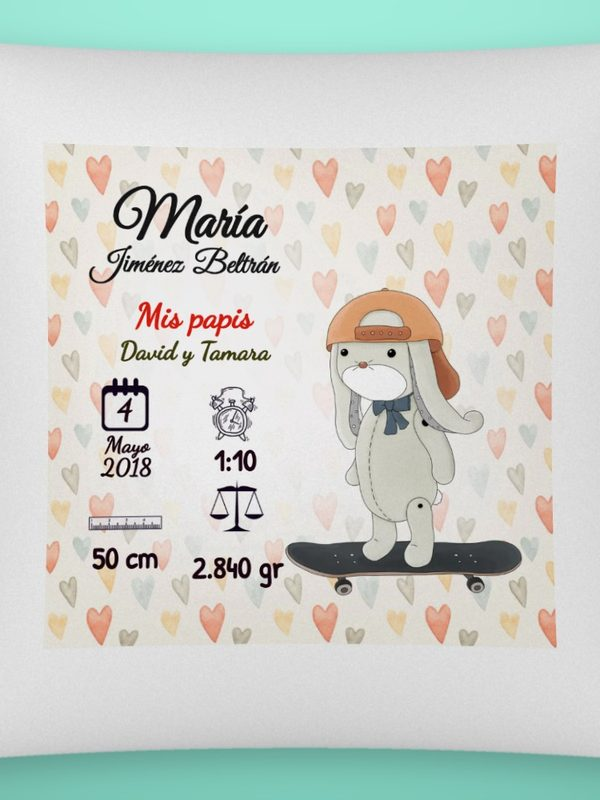
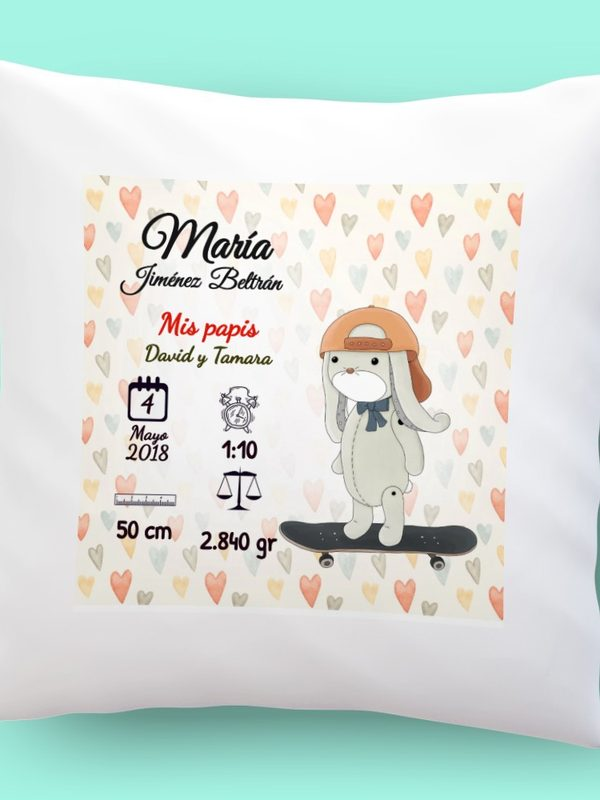
Vista del cojín con foto real (fondo verde menta) y diseño adaptado a sus luces
Claude-Session: https://claude.ai/code/session_014LaVctDRqt7kg5MW58nu8k

diff --git a/textos.js b/textos.js
@@ -9,9 +9,9 @@ const FUENTES=[["QL Titulo","fuentes/LilitaOne-Regular.ttf"],["QL Destacado","fu
   ["QL Elegante","fuentes/GreatVibes-Regular.ttf"],["QL Script","fuentes/DancingScript.ttf",{weight:"400 700"}]];
 // Cojines de nacimiento: misma ficha que el de jubilación
 const COJIN_FICHA=["Cojín de 40 × 40 cm, color blanco","Zona impresa: 29 × 29 cm aprox.","Material: 100 % poliéster"];
-// Foto del cojín generada con relieve (herramientas/mockup_cojin.py): c = centro, s = semilado, a = pellizco de los lados,
-// t = parte impresa (29 de 40 cm), alb = blanco de la tela en la foto. dibujarMockup curva y sombrea el diseño con esa misma forma.
-const MOCKUP_COJIN={src:"disenos/cojin_jubilacion/mockup3.jpg", w:1000, h:1000, cojin:{c:500, s:452, a:0.04, t:0.725, alb:236}};
+// Foto real de cojín (fondo cambiado a verde menta). q = esquinas de la zona impresa (29 cm) en la foto,
+// a = cuánto se meten los lados hacia dentro, ref = gris de la tela más iluminada. El diseño se curva y toma las luces de la foto.
+const MOCKUP_COJIN={src:"disenos/cojin_jubilacion/mockup4.jpg", w:1000, h:1000, cojin:{q:[[228.3,217.6],[780.7,228.0],[754.2,785.8],[215.9,765.1]], a:0.025, ref:250}};
 
 // Cojín perrito con globos (niña rosa / niño azul): mismos textos, cambia el color de los datos
 const CAMPOS_PERRITO=nom=>[
@@ -325,35 +325,46 @@ function dibujarMockup(cv,d,diseno,foto){
     g.imageSmoothingQuality="high"; g.drawImage(diseno,0,0);
     g.globalCompositeOperation="source-over"; g.globalAlpha=0.55; g.drawImage(diseno,0,0); g.restore(); return;
   }
-  // 1) Diseño al tamaño impreso en la foto
-  const P=Math.round(2*k.t*k.s), dc=document.createElement("canvas"); dc.width=dc.height=P;
+  // 1) Diseño a su tamaño en la foto
+  const q=k.q, hw=(q[1][0]+q[2][0]-q[0][0]-q[3][0])/4, hh=(q[3][1]+q[2][1]-q[0][1]-q[1][1])/4;
+  const P=Math.round(Math.max(hw,hh)*2), dc=document.createElement("canvas"); dc.width=dc.height=P;
   const dg=dc.getContext("2d"); dg.imageSmoothingQuality="high"; dg.drawImage(diseno,0,0,P,P);
   const D=dg.getImageData(0,0,P,P).data;
-  // 2) Curvarlo como la tela (los lados se meten hacia dentro) y sombrearlo con las luces y arrugas de la foto
-  const x0=Math.max(0,Math.floor(k.c-k.s*k.t-2)), x1=Math.min(mk.w,Math.ceil(k.c+k.s*k.t+2)), W=x1-x0;
-  const Fi=g.getImageData(x0,x0,W,W), F=Fi.data, T=k.t, A=k.a, inv=1/k.alb;
-  for(let py=0;py<W;py++){
-    const Y=(x0+py+0.5-k.c)/k.s;
+  // 2) Para cada píxel de la foto, buscar qué punto del diseño cae ahí (zona impresa curvada) y sombrearlo con la foto
+  const xs=q.map(p=>p[0]), ys=q.map(p=>p[1]);
+  const x0=Math.max(0,Math.floor(Math.min(...xs))-3), x1=Math.min(mk.w,Math.ceil(Math.max(...xs))+3);
+  const y0=Math.max(0,Math.floor(Math.min(...ys))-3), y1=Math.min(mk.h,Math.ceil(Math.max(...ys))+3);
+  const W=x1-x0, H=y1-y0, Fi=g.getImageData(x0,y0,W,H), F=Fi.data, A=k.a, inv=1/k.ref, ext=1+3/Math.min(hw,hh);
+  const [a0,a1]=q[0], [b0,b1]=q[1], [c0,c1]=q[2], [d0,d1]=q[3];
+  let ur=-1, vr=-1;
+  for(let py=0;py<H;py++){
+    const Y=y0+py+0.5; let u=ur, v=vr, primero=true;
     for(let px=0;px<W;px++){
-      const X=(x0+px+0.5-k.c)/k.s;
-      let u=X, v=Y;
-      for(let i=0;i<4;i++){ u=X/(1-A*(1-v*v)); v=Y/(1-A*(1-u*u)); }
-      const e=Math.max(Math.abs(u),Math.abs(v)); if(e>T+2/k.s) continue;
-      const cov=Math.min(1,Math.max(0,(T-e)*k.s+0.5)); if(cov<=0) continue;
-      const sx=Math.min(P-1.001,Math.max(0,(u/T+1)/2*P-0.5)), sy=Math.min(P-1.001,Math.max(0,(v/T+1)/2*P-0.5));
+      const X=x0+px+0.5;
+      for(let it=0;it<4;it++){
+        const s_=(u+1)/2, t_=(v+1)/2;
+        const bx=(1-s_)*(1-t_)*a0+s_*(1-t_)*b0+s_*t_*c0+(1-s_)*t_*d0-A*hw*u*(1-v*v);
+        const by=(1-s_)*(1-t_)*a1+s_*(1-t_)*b1+s_*t_*c1+(1-s_)*t_*d1-A*hh*v*(1-u*u);
+        const jxu=0.5*((1-t_)*(b0-a0)+t_*(c0-d0))-A*hw*(1-v*v), jxv=0.5*((1-s_)*(d0-a0)+s_*(c0-b0))+2*A*hw*u*v;
+        const jyu=0.5*((1-t_)*(b1-a1)+t_*(c1-d1))+2*A*hh*u*v,   jyv=0.5*((1-s_)*(d1-a1)+s_*(c1-b1))-A*hh*(1-u*u);
+        const det=jxu*jyv-jxv*jyu, ex=X-bx, ey=Y-by;
+        u+=( jyv*ex-jxv*ey)/det; v+=(-jyu*ex+jxu*ey)/det;
+      }
+      if(primero){ ur=u; vr=v; primero=false; }
+      const e=Math.max(Math.abs(u),Math.abs(v)); if(e>ext) continue;
+      const cov=Math.min(1,Math.max(0,(1-e)*Math.min(hw,hh)+0.5)); if(cov<=0) continue;
+      const sx=Math.min(P-1.001,Math.max(0,(u+1)/2*P-0.5)), sy=Math.min(P-1.001,Math.max(0,(v+1)/2*P-0.5));
       const ix=sx|0, iy=sy|0, fx=sx-ix, fy=sy-iy, i00=(iy*P+ix)*4, i10=i00+4, i01=i00+P*4, i11=i01+4;
       const w00=(1-fx)*(1-fy)*D[i00+3], w10=fx*(1-fy)*D[i10+3], w01=(1-fx)*fy*D[i01+3], w11=fx*fy*D[i11+3], ws=w00+w10+w01+w11;
-      const da=ws/255; if(da<=0) continue;
-      const o=(py*W+px)*4, r0=F[o], g0=F[o+1], b0=F[o+2];
-      const sh=(r0+g0+b0)/3*inv, lo=Math.min(sh,1)*k.alb/255, hi=Math.max(sh-1,0)*1.2, al=da*cov;
+      if(ws<=0) continue;
+      const o=(py*W+px)*4, sh=(F[o]+F[o+1]+F[o+2])/3*inv, lo=Math.min(sh,1), hi=Math.max(sh-1,0)*1.2, al=ws/255*cov;
       for(let c=0;c<3;c++){
         const dv=(D[i00+c]*w00+D[i10+c]*w10+D[i01+c]*w01+D[i11+c]*w11)/ws;   // media ponderada por la opacidad
-        const out=dv*lo+(255-dv*lo)*hi;
-        F[o+c]=F[o+c]*(1-al)+out*al;
+        F[o+c]=F[o+c]*(1-al)+(dv*lo+(255-dv*lo)*hi)*al;
       }
     }
   }
-  g.putImageData(Fi,x0,x0);
+  g.putImageData(Fi,x0,y0);
 }
 window.QLTextos={DISENOS,FORMAS,personaje,cargar,cargarFuentes,dibujar,ajustar,cargarMockup,dibujarMockup};
 })();

diff --git a/personalizar.html b/personalizar.html
@@ -86,7 +86,7 @@ input.err,textarea.err{border-color:#C0392B;background:#FFF5F4}
 <script src="menu.js"></script>
 <div id="app"><div class="sub" style="padding:40px 0;text-align:center">Cargando…</div></div>
 <script>document.write('<script src="config.js?v='+Date.now()+'"><\/script>');</script><!-- siempre los ajustes al día -->
-<script src="textos.js?v=6"></script>
+<script src="textos.js?v=7"></script>
 <script src="visor.js"></script>
 <script>
 (function(){

diff --git a/pedir.html b/pedir.html
@@ -159,7 +159,7 @@ input.err,select.err{border-color:#C0392B;background:#FFF5F4}
 <script src="menu.js"></script>
 <div id="app"></div>
 <script>document.write('<script src="config.js?v='+Date.now()+'"><\/script>');</script><!-- siempre los ajustes al día -->
-<script src="textos.js?v=6"></script>
+<script src="textos.js?v=7"></script>
 <script src="calendario12.js"></script>
 <script src="visor.js"></script>
 <script src="calidad.js"></script>

diff --git a/admin.html b/admin.html
@@ -111,7 +111,7 @@ canvas#prev{width:100%;height:auto;display:block;border-radius:6px;box-shadow:0 
 <body>
 <div id="root"></div>
 <script>document.write('<script src="config.js?v='+Date.now()+'"><\/script>');</script><!-- siempre los ajustes al día -->
-<script src="textos.js?v=6"></script>
+<script src="textos.js?v=7"></script>
 <script src="calendario12.js"></script>
 <script src="fotocojin.js"></script>
 <script>

diff --git a/herramientas/mockup_cojin_fondo.py b/herramientas/mockup_cojin_fondo.py
@@ -1,0 +1,35 @@
+import numpy as np, cv2, json
+a = cv2.imread('pillow-mockup.jpg').astype(np.float32)   # BGR 2500 x 2000
+PINK = np.array([204, 180, 252], np.float32)                     # BGR del fondo
+MINT = np.array([228, 244, 166], np.float32)                     # BGR: verde menta de la web
+X0, Y0, SIDE, OUT = 687, 448, 1150, 1000
+
+# cuánto "rosa" tiene cada píxel respecto a su brillo (el cojín es gris neutro)
+Y = a @ np.array([0.114, 0.587, 0.299], np.float32)
+Yp = float(PINK @ np.array([0.114, 0.587, 0.299], np.float32))
+chroma = a[..., 2] - a[..., 1]                       # R - G
+ratio = chroma / np.maximum(Y, 1)
+rp = (PINK[2] - PINK[1]) / Yp
+al = np.clip((ratio / rp - 0.15) / 0.7, 0, 1)        # 1 = fondo / sombra, 0 = cojín
+f = Y / Yp                                           # sombra (1 = fondo sin sombra)
+# la sombra se desvanece antes del borde del recorte para que no quede cortada
+yy, xx = np.mgrid[0:a.shape[0], 0:a.shape[1]].astype(np.float32)
+d = np.minimum.reduce([xx - X0, X0 + SIDE - xx, yy - Y0, Y0 + SIDE - yy])
+fade = np.clip(d / 120, 0, 1)
+f = 1 - (1 - f) * fade
+bg = MINT * np.clip(f, 0, 1.05)[..., None]
+out = a * (1 - al[..., None]) + bg * al[..., None]
+crop = np.clip(out[Y0:Y0 + SIDE, X0:X0 + SIDE], 0, 255).astype(np.uint8)
+crop = cv2.resize(crop, (OUT, OUT), interpolation=cv2.INTER_AREA)
+cv2.imwrite('mockup4.jpg', crop, [cv2.IMWRITE_JPEG_QUALITY, 90])
+
+# Geometría para textos.js (en px de la foto final)
+k = OUT / SIDE
+C = {'TL': (804, 533), 'TR': (1741, 551), 'BR': (1696, 1520), 'BL': (783, 1484)}
+cx = np.mean([p[0] for p in C.values()]); cy = np.mean([p[1] for p in C.values()])
+KX, KY = 0.678, 0.662
+q = []
+for n in ['TL', 'TR', 'BR', 'BL']:
+    x, y = C[n]
+    q.append([round((cx + (x - cx) * KX - X0) * k, 1), round((cy + (y - cy) * KY - Y0) * k, 1)])
+print(json.dumps(q))
